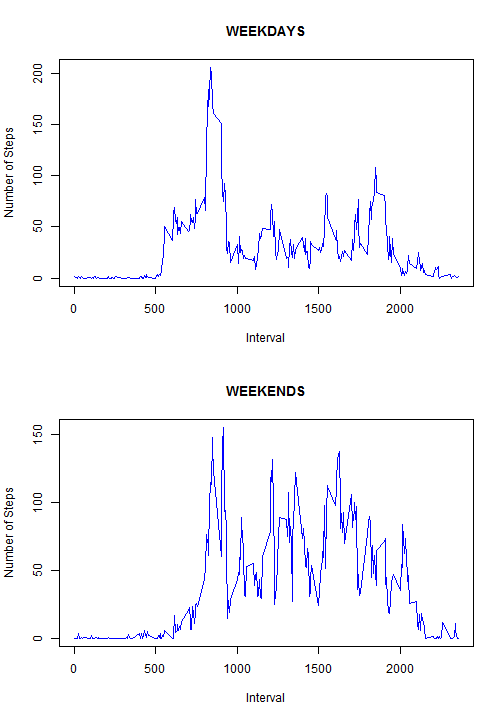
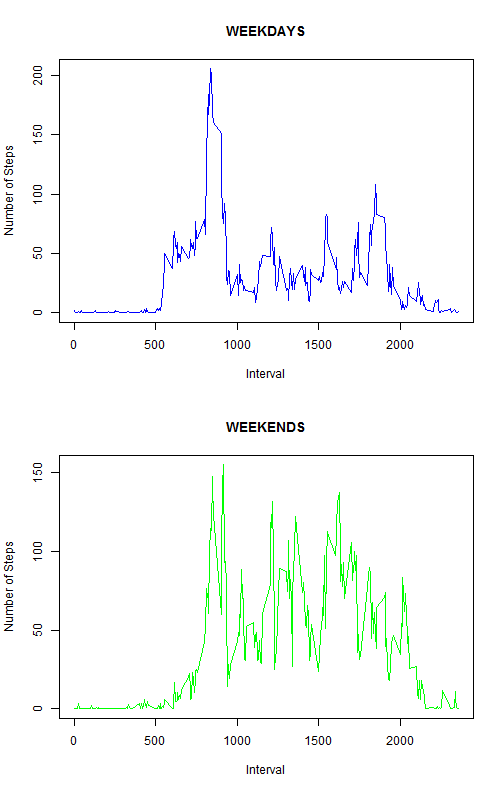
Final Version

diff --git a/PA1_template.html b/PA1_template.html
@@ -183,16 +183,12 @@ hljs.initHighlightingOnLoad();
 
 <h2>Loading and preprocessing the data</h2>
 
-<ol>
-<li>Load the data, stored in a csv file, called <em>activity.csv</em><br/></li>
-</ol>
+<p>1 Load the data, stored in a csv file, called <em>activity.csv</em>  </p>
 
 <pre><code class="r">mT &lt;- read.csv(file=&quot;./activity.csv&quot;)
 </code></pre>
 
-<ol>
-<li>Process data into a <strong>matrix</strong> format, more suitable for the analysis, columns with <strong>dates</strong>, <em>date</em> farmat, and rows with <strong>intervals</strong> . Then, calculate two vector with dates and intervals</li>
-</ol>
+<p>2 Process data into a <strong>matrix</strong> format, more suitable for the analysis, columns with <strong>dates</strong>, <em>date</em> format, and rows with <strong>intervals</strong> . Then, calculate two vector with dates and intervals</p>
 
 <pre><code class="r">steps &lt;- matrix(mT$steps, nrow=288, ncol=61)
 dates &lt;- as.Date(mT$date[288*c(1:61)])
@@ -201,7 +197,7 @@ intervals &lt;- mT$interval[1:288]
 
 <h2>What is mean total number of steps taken per day?</h2>
 
-<p>1 We make a histogram of the total number of steps taken each day, ignoring the missing vales of the Datase  </p>
+<p>1 Make a histogram of the total number of steps taken each day, ignoring the missing vales of the Datase  </p>
 
 <pre><code class="r">TotalStepsPerDay &lt;- apply(steps,2,sum, na.rm=TRUE)
 hist(TotalStepsPerDay,breaks=20, col=&quot;red&quot;, xlab=&quot;Steps&quot;, main=&quot;Total Steps per Day&quot;)
@@ -215,7 +211,7 @@ hist(TotalStepsPerDay,breaks=20, col=&quot;red&quot;, xlab=&quot;Steps&quot;, ma
 medianTotalPerDay &lt;- (median(TotalStepsPerDay))
 </code></pre>
 
-<p>So the resulting values are: <strong>mean:</strong> 9354.2295 and <strong>median:</strong> 10395</p>
+<p>Resulting values are: <strong>mean: 9354.2295</strong> and <strong>median: 10395</strong></p>
 
 <h2>What is the average daily activity pattern?</h2>
 
@@ -228,12 +224,12 @@ plot(intervals, MeanPerInterval,type=&quot;l&quot;, xlab=&quot;Interval&quot;,
 
[1 lines of base64/hex data omitted]
 
-<p>2 Calculate the 5-minute interval, on average across all the days in the dataset, contains the maximum number of steps:  </p>
+<p>2 Calculate the 5-minute interval that, on average, contains the maximum number of steps:  </p>
 
 <pre><code class="r">maximum &lt;- intervals[which(MeanPerInterval==max(MeanPerInterval))]
 </code></pre>
 
-<p>Then, the maximun average steps ocurring in the interval <strong>8:35</strong></p>
+<p>Then, the maximun average steps ocurs in the interval <strong>8:35</strong></p>
 
 <h2>Imputing missing values</h2>
 
@@ -244,7 +240,9 @@ plot(intervals, MeanPerInterval,type=&quot;l&quot;, xlab=&quot;Interval&quot;,
 
 <p>So, the total number of days with missing values in the dataset is 8</p>
 
-<p>2 A strategy for filling in all of the missing values in the dataset: I use the median for that 5-minute interval. So, first calculate the median for each interval</p>
+<p>2 A strategy for filling in all of the missing values in the dataset:<br/>
+<strong>The median for that 5-minute interval</strong><br/>
+So, first calculate the median for each interval</p>
 
 <pre><code class="r">medianPerInterval &lt;- apply(steps, 1, median,na.rm=TRUE)
 </code></pre>
@@ -269,8 +267,7 @@ hist(NewTotalStepsPerDay,breaks=20, col=&quot;blue&quot;, xlab=&quot;Steps&quot;
 medianTotalPerDay &lt;- (median(TotalStepsPerDay))
 </code></pre>
 
-<p>In the previous histogram, the <strong>mean</strong> is 9354.2295 and the <strong>median</strong>
-10395 </p>
+<p>In the previous histogram, <strong>mean: 9354.2295</strong> and <strong>median: 10395</strong> </p>
 
 <p>These values <strong>do not</strong> differ significatively from the estimates from the first part of the assignment. The impact of imputing missing data on the estimates of the total daily number of steps is very low, only 8 values changes fron NA, to 10395</p>
 
@@ -280,11 +277,24 @@ medianTotalPerDay &lt;- (median(TotalStepsPerDay))
 
 <p>1 Create a new factor variable in the dataset with two levels  weekday and weekend indicating whether a given date is a weekday or weekend day.  </p>
 
-<pre><code class="r">W &lt;- factor(weekdays(dates,abbreviate=TRUE) %in% c(&quot;Mon&quot;,&quot;Tue&quot;,&quot;Wed&quot;,&quot;Thu&quot;,&quot;Fri&quot;), 
-            levels=c(TRUE, FALSE), labels=c(&quot;weekday&quot;, &quot;weekend&quot;))
+<pre><code class="r">daytype &lt;&lt;- factor(x=weekdays(dates,abbreviate=TRUE) %in% c(&quot;Sat&quot;,&quot;Sun&quot;),
+                   levels=c(TRUE,FALSE), labels=c(&quot;WeekEnd&quot;, &quot;WeekDay&quot;))
+daytype
+</code></pre>
 
-MeanPerIntervalWeekDays &lt;- apply(new_steps[,W==&quot;weekday&quot;], 1, mean)
-MeanPerIntervalWeekEnds &lt;- apply(new_steps[,W==&quot;weekend&quot;], 1, mean)
+<pre><code>##  [1] WeekDay WeekDay WeekDay WeekDay WeekDay WeekEnd WeekEnd WeekDay
+##  [9] WeekDay WeekDay WeekDay WeekDay WeekEnd WeekEnd WeekDay WeekDay
+## [17] WeekDay WeekDay WeekDay WeekEnd WeekEnd WeekDay WeekDay WeekDay
+## [25] WeekDay WeekDay WeekEnd WeekEnd WeekDay WeekDay WeekDay WeekDay
+## [33] WeekDay WeekEnd WeekEnd WeekDay WeekDay WeekDay WeekDay WeekDay
+## [41] WeekEnd WeekEnd WeekDay WeekDay WeekDay WeekDay WeekDay WeekEnd
+## [49] WeekEnd WeekDay WeekDay WeekDay WeekDay WeekDay WeekEnd WeekEnd
+## [57] WeekDay WeekDay WeekDay WeekDay WeekDay
+## Levels: WeekEnd WeekDay
+</code></pre>
+
+<pre><code class="r">MeanPerIntervalWeekDays &lt;&lt;- apply(new_steps[,daytype==&quot;WeekDay&quot;], 1, mean)
+MeanPerIntervalWeekEnds &lt;&lt;- apply(new_steps[,daytype==&quot;WeekEnd&quot;], 1, mean)
 </code></pre>
 
 <p>2 Make a panel plot containing a time series plot of the 5-minute interval (x-axis) and the average number of steps taken, averaged across all weekday days or weekend days (y-axis).</p>
@@ -293,10 +303,10 @@ MeanPerIntervalWeekEnds &lt;- apply(new_steps[,W==&quot;weekend&quot;], 1, mean)
 plot(intervals, MeanPerIntervalWeekDays, type=&quot;l&quot;, xlab=&quot;Interval&quot;, 
      ylab=&quot;Number of Steps&quot;, main =&quot;WEEKDAYS&quot;, col=&quot;blue&quot;)
 plot(intervals, MeanPerIntervalWeekEnds, type=&quot;l&quot;, xlab=&quot;Interval&quot;, 
-     ylab=&quot;Number of Steps&quot;, main =&quot;WEEKENDS&quot;, col=&quot;green&quot;)
+     ylab=&quot;Number of Steps&quot;, main =&quot;WEEKENDS&quot;, col=&quot;dark green&quot;)
 </code></pre>
 
[2 lines of base64/hex data omitted]
 
 <p><strong>Conclusion:</strong> The two patterns differ considerably, both in shape and values</p>
 

diff --git a/PA1_template.md b/PA1_template.md
@@ -5,14 +5,14 @@
 
 ## Loading and preprocessing the data
 
-1. Load the data, stored in a csv file, called *activity.csv*  
+1 Load the data, stored in a csv file, called *activity.csv*  
 
 
 ```r
 mT <- read.csv(file="./activity.csv")
 ```
 
-2. Process data into a **matrix** format, more suitable for the analysis, columns with **dates**, *date* farmat, and rows with **intervals** . Then, calculate two vector with dates and intervals
+2 Process data into a **matrix** format, more suitable for the analysis, columns with **dates**, *date* format, and rows with **intervals** . Then, calculate two vector with dates and intervals
 
 
 
@@ -25,7 +25,7 @@ intervals <- mT$interval[1:288]
 
 ## What is mean total number of steps taken per day?
 
-1 We make a histogram of the total number of steps taken each day, ignoring the missing vales of the Datase  
+1 Make a histogram of the total number of steps taken each day, ignoring the missing vales of the Datase  
 
 
 ```r
@@ -43,7 +43,7 @@ meanTotalPerDay <- (mean(TotalStepsPerDay))
 medianTotalPerDay <- (median(TotalStepsPerDay))
 ```
 
-So the resulting values are: **mean:** 9354.2295 and **median:** 10395
+Resulting values are: **mean: 9354.2295** and **median: 10395**
 
 ## What is the average daily activity pattern?
 
@@ -59,14 +59,14 @@ plot(intervals, MeanPerInterval,type="l", xlab="Interval",
 ![plot of chunk unnamed-chunk-1](figure/unnamed-chunk-1.png) 
 
 
-2 Calculate the 5-minute interval, on average across all the days in the dataset, contains the maximum number of steps:  
+2 Calculate the 5-minute interval that, on average, contains the maximum number of steps:  
 
 
 ```r
 maximum <- intervals[which(MeanPerInterval==max(MeanPerInterval))]
 ```
 
-Then, the maximun average steps ocurring in the interval **8:35**
+Then, the maximun average steps ocurs in the interval **8:35**
 
 ## Imputing missing values
  
@@ -78,7 +78,9 @@ TotalDaysMissing = sum(apply(steps,2, function(x) sum(is.na(x))!=0))
 ```
 So, the total number of days with missing values in the dataset is 8
 
-2 A strategy for filling in all of the missing values in the dataset: I use the median for that 5-minute interval. So, first calculate the median for each interval
+2 A strategy for filling in all of the missing values in the dataset:   
+**The median for that 5-minute interval**  
+So, first calculate the median for each interval
 
 
 ```r
@@ -111,8 +113,7 @@ meanTotalPearDay <- (mean(TotalStepsPerDay))
 medianTotalPerDay <- (median(TotalStepsPerDay))
 ```
 
-In the previous histogram, the **mean** is 9354.2295 and the **median**
-10395 
+In the previous histogram, **mean: 9354.2295** and **median: 10395** 
 
 These values **do not** differ significatively from the estimates from the first part of the assignment. The impact of imputing missing data on the estimates of the total daily number of steps is very low, only 8 values changes fron NA, to 10395
 
@@ -124,11 +125,26 @@ For this part we'll use the new_steps, with the filled-in missing values
 
 
 ```r
-W <- factor(weekdays(dates,abbreviate=TRUE) %in% c("Mon","Tue","Wed","Thu","Fri"), 
-            levels=c(TRUE, FALSE), labels=c("weekday", "weekend"))
-    
-MeanPerIntervalWeekDays <- apply(new_steps[,W=="weekday"], 1, mean)
-MeanPerIntervalWeekEnds <- apply(new_steps[,W=="weekend"], 1, mean)
+daytype <<- factor(x=weekdays(dates,abbreviate=TRUE) %in% c("Sat","Sun"),
+                   levels=c(TRUE,FALSE), labels=c("WeekEnd", "WeekDay"))
+daytype
+```
+
+```
+##  [1] WeekDay WeekDay WeekDay WeekDay WeekDay WeekEnd WeekEnd WeekDay
+##  [9] WeekDay WeekDay WeekDay WeekDay WeekEnd WeekEnd WeekDay WeekDay
+## [17] WeekDay WeekDay WeekDay WeekEnd WeekEnd WeekDay WeekDay WeekDay
+## [25] WeekDay WeekDay WeekEnd WeekEnd WeekDay WeekDay WeekDay WeekDay
+## [33] WeekDay WeekEnd WeekEnd WeekDay WeekDay WeekDay WeekDay WeekDay
+## [41] WeekEnd WeekEnd WeekDay WeekDay WeekDay WeekDay WeekDay WeekEnd
+## [49] WeekEnd WeekDay WeekDay WeekDay WeekDay WeekDay WeekEnd WeekEnd
+## [57] WeekDay WeekDay WeekDay WeekDay WeekDay
+## Levels: WeekEnd WeekDay
+```
+
+```r
+MeanPerIntervalWeekDays <<- apply(new_steps[,daytype=="WeekDay"], 1, mean)
+MeanPerIntervalWeekEnds <<- apply(new_steps[,daytype=="WeekEnd"], 1, mean)
 ```
 
 2 Make a panel plot containing a time series plot of the 5-minute interval (x-axis) and the average number of steps taken, averaged across all weekday days or weekend days (y-axis).
@@ -139,10 +155,11 @@ par(mfrow=c(2,1))
 plot(intervals, MeanPerIntervalWeekDays, type="l", xlab="Interval", 
      ylab="Number of Steps", main ="WEEKDAYS", col="blue")
 plot(intervals, MeanPerIntervalWeekEnds, type="l", xlab="Interval", 
-     ylab="Number of Steps", main ="WEEKENDS", col="green")
+     ylab="Number of Steps", main ="WEEKENDS", col="dark green")
 ```
 
 ![plot of chunk unnamed-chunk-9](figure/unnamed-chunk-9.png) 
+
 
 **Conclusion:** The two patterns differ considerably, both in shape and values
 
